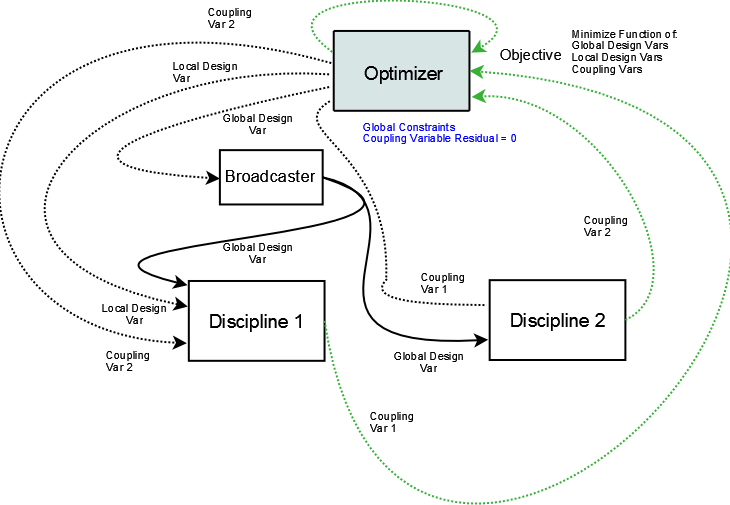
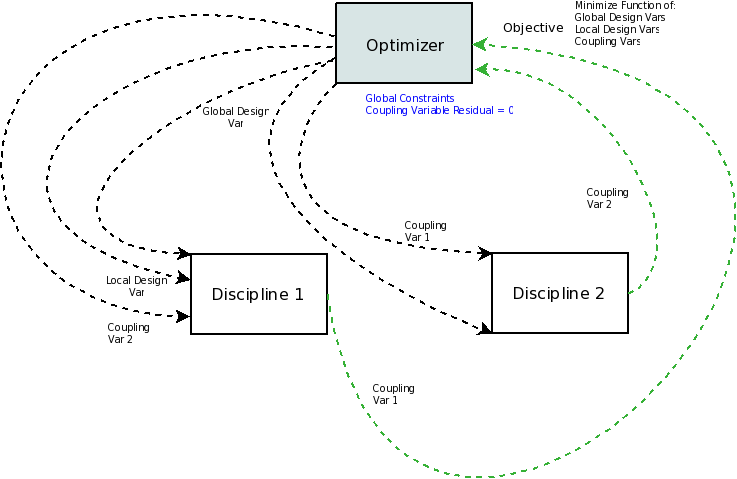
updated diagrams, and text for IDF tutorial

diff --git a/examples/openmdao.examples.mdao/openmdao/examples/mdao/sellar_IDF.py b/examples/openmdao.examples.mdao/openmdao/examples/mdao/sellar_IDF.py
@@ -1,8 +1,6 @@
 """
     Solution of the sellar analytical problem using IDF.
 """
-
-# pylint: disable-msg=E0611,F0401
 from openmdao.examples.mdao.disciplines import SellarDiscipline1, \
                                                SellarDiscipline2
 from openmdao.main.api import Assembly, set_as_top
@@ -18,9 +16,7 @@ class SellarIDF(Assembly):
         Optimal Design at (1.9776, 0, 0)
         
         Optimal Objective = 3.18339"""
-        
-        # pylint: disable-msg=E1101
-        
+                
         super(SellarIDF, self).__init__()
 
         # create Optimizer instance
@@ -37,8 +33,11 @@ class SellarIDF(Assembly):
         # Optimization parameters
         self.driver.add_objective('(dis1.x1)**2 + dis1.z2 + dis1.y1 + math.exp(-dis2.y2)')
         
+        #Global Design Variables
         self.driver.add_parameter(('dis1.z1','dis2.z1'), low = -10.0, high=10.0)
         self.driver.add_parameter(('dis1.z2','dis2.z2'), low = 0.0,   high=10.0)
+        
+        #Local Design Variables and Coupling Variables
         self.driver.add_parameter('dis1.x1',      low = 0.0,   high=10.0)
         self.driver.add_parameter('dis2.y1',      low = 3.16,  high=10.0)
         self.driver.add_parameter('dis1.y2',      low = -10.0, high=24.0)

diff --git a/docs/mdao/idf.rst b/docs/mdao/idf.rst
@@ -6,11 +6,10 @@ Individual Design Feasible (IDF)
 =================================
 
 Next, we will look at how to set up the Individual Design Feasible (IDF)
-architecture using the Sellar problem. In IDF, the coupling between the
+architecture for the Sellar problem. In IDF, the direct coupling between the
 disciplines is removed, and the input coupling variables are added to
 the optimizer's design variables. The algorithm calls for two new equality
-constraints that constrain to zero the residual error between the coupling variable
-output by the optimizer and the coupling variable output by the components.
+constraints that enforce the coupling between the disciplines instead. 
 This assures that the solution is a feasible coupling, though it is achieved
 through the optimizer's additional effort instead of a solver. The data
 flow for IDF is illustrated in the following diagram:
@@ -21,8 +20,8 @@ flow for IDF is illustrated in the following diagram:
    
    Data Flow for IDF
    
-IDF needs only one driver, so there is just one workflow. The broadcaster and
-the two disciplines are executed sequentially.
+IDF needs only one driver, so there is just one workflow where the two disciplines are executed sequentially.
+From the perspective of the iteration hierarchy, IDF is extremely simple.
    
 .. figure:: ../images/tutorials/Arch-IDF-OpenMDAO.png
    :align: center
@@ -30,15 +29,13 @@ the two disciplines are executed sequentially.
     
    Iteration Hierarchy for IDF
    
-Next, we will create the ``SellarIDF`` assembly. First, all of our components
+To implment IDF, we create the ``SellarIDF`` assembly. First, all of our components
 are instantiated and the workflow is defined.
    
 .. testcode:: IDF_parts
 
         from openmdao.examples.mdao.disciplines import SellarDiscipline1, \
-                                                       SellarDiscipline2
-        from openmdao.examples.mdao.broadcaster import Broadcaster
-        
+                                               SellarDiscipline2
         from openmdao.main.api import Assembly, set_as_top
         from openmdao.lib.drivers.api import CONMINdriver
         
@@ -52,32 +49,26 @@ are instantiated and the workflow is defined.
                 Optimal Design at (1.9776, 0, 0)
                 
                 Optimal Objective = 3.18339"""
-                
-                # pylint: disable-msg=E1101
-                
+                        
                 super(SellarIDF, self).__init__()
         
                 # create Optimizer instance
                 self.add('driver', CONMINdriver())
         
                 # Disciplines
-                self.add('bcastr', Broadcaster())
                 self.add('dis1', SellarDiscipline1())
                 self.add('dis2', SellarDiscipline2())
                 
                 # Driver process definition
-                self.driver.workflow.add(['bcastr', 'dis1', 'dis2'])
-                
-                # Make all connections
-                self.connect('bcastr.z1','dis1.z1')
-                self.connect('bcastr.z1','dis2.z1')
-                self.connect('bcastr.z2','dis1.z2')
-                self.connect('bcastr.z2','dis2.z2')
+                self.driver.workflow.add(['dis1', 'dis2'])
 
-We've also hooked up our data connections. Only the design variables that are shared
-by both components need to be connected to the broadcaster.
-
-All that is left to do is set up the CONMIN optimizer.
+Thats all it takes to setup the workflow for IDF. All that is left to do is set up the CONMIN optimizer. 
+Pay attention, in the code below, to how we handle the global design variables z1 and z2. They are setup the same
+way we did it for the MDF architecture. However, unlike for MDF, the coupling variables are also included as optimizer 
+parameters. We also introduce the CONMIN parameter *ct*, which is the constraint thickness for
+nonlinear constraints. Our constraints are nonlinear, but note that any
+constraint that involves a component output is most likely a nonlinear
+constraint because outputs are usually nonlinear functions of the design variables.
 
 .. testcode:: IDF_parts
     :hide:
@@ -87,18 +78,22 @@ All that is left to do is set up the CONMIN optimizer.
 .. testcode:: IDF_parts
 
         # Optimization parameters
-        self.driver.add_objective('(dis1.x1)**2 + bcastr.z2 + dis1.y1 + math.exp(-dis2.y2)')
+        self.driver.add_objective('(dis1.x1)**2 + dis1.z2 + dis1.y1 + math.exp(-dis2.y2)')
         
-        self.driver.add_parameter('bcastr.z1_in', low = -10.0, high=10.0)
-        self.driver.add_parameter('bcastr.z2_in', low = 0.0,   high=10.0)
+        #Global Design Variables
+        self.driver.add_parameter(('dis1.z1','dis2.z1'), low = -10.0, high=10.0)
+        self.driver.add_parameter(('dis1.z2','dis2.z2'), low = 0.0,   high=10.0)
+        
+        #Local Design Variables and Coupling Variables
         self.driver.add_parameter('dis1.x1',      low = 0.0,   high=10.0)
         self.driver.add_parameter('dis2.y1',      low = 3.16,  high=10.0)
         self.driver.add_parameter('dis1.y2',      low = -10.0, high=24.0)
             
-        self.driver.add_constraint('(dis2.y1-dis1.y1)**3 < 0')
-        self.driver.add_constraint('(dis1.y1-dis2.y1)**3 < 0')
-        self.driver.add_constraint('(dis2.y2-dis1.y2)**3 < 0')
-        self.driver.add_constraint('(dis1.y2-dis2.y2)**3 < 0')
+        self.driver.add_constraint('(dis2.y1-dis1.y1)**3 <= 0')
+        self.driver.add_constraint('(dis1.y1-dis2.y1)**3 <= 0')
+        self.driver.add_constraint('(dis2.y2-dis1.y2)**3 <= 0')
+        self.driver.add_constraint('(dis1.y2-dis2.y2)**3 <= 0')
+  
         self.driver.iprint = 0
         self.driver.itmax = 100
         self.driver.fdch = .003
@@ -108,26 +103,108 @@ All that is left to do is set up the CONMIN optimizer.
         self.driver.ct = -.01
         self.driver.ctlmin = 0.001
         
-Notice that the coupling variables are included as optimizer parameters. We
-also introduce the CONMIN parameter *ct*, which is the constraint thickness for
-nonlinear constraints. Our constraints are nonlinear, but note that any
-constraint that involves a component output is most likely a nonlinear
-constraint because outputs are usually nonlinear functions of the design variables.
 
+Technically, IDF requires the use of equality constraints to enforce coupling between the disciplines. 
 Since CONMIN doesn't support equality constraints, we have to fall back on a
 trick where we replace it with an equivalent pair of inequality constraints.
 For example, if we want to constrain ``x=2``, we could constraint ``x<=2`` and ``x>=2`` and
 let the optimizer converge to a solution where both constraints are active.
-Stability may be questionable for such a method, so it is always advisable to use an
-optimizer that has equality constraints rather than trying to squeeze a solution
-out of an optimizer this way. In particular, be careful about trying a fancier
-solution such as constraining ``abs(dis2.y1-dis1.y1)<=0``. This nonlinear
-constraint has a discontinuous slope, and CONMIN won't handle that constraint very well.
-Here, we take ``(dis2.y1-dis1.y1)`` and turn it into a cubic expression, which seemed
-to make the problem a little less sensitive to changes in the computational
-environment (32 bit vs 64 bit, etc.)
+Working with two inequalities is a bit more tricky though, because it can introduce some instability to 
+the optimizer and affect it's final solution. 
 
-This problem is contained in ``sellar_IDF.py``. Executing it at the command line should produce
+You might consider trying a fancier solution such as constraining ``abs(dis2.y1-dis1.y1)<=0``. Be careful though, 
+because this nonlinear constraint has a discontinuous slope, and CONMIN won't handle that very well. 
+After some experimentation, we found that cubing the difference between the coupling variables, 
+i.e. ``(dis1.y1-dis2.y1)**3``, seemed to make CONMIN happy and helped convergence. 
+
+When you put it all together, you get 
+:download:`sellar_IDF.py </../examples/openmdao.examples.mdao/openmdao/examples/mdao/sellar_IDF.py>`. 
+Once again, we added a small amount of code at the end to execute, and then print out the results of, the IDF
+optimization. 
+
+.. testcode:: IDF_full
+        from openmdao.examples.mdao.disciplines import SellarDiscipline1, \
+                                                       SellarDiscipline2
+        from openmdao.main.api import Assembly, set_as_top
+        from openmdao.lib.drivers.api import CONMINdriver
+        
+        
+        class SellarIDF(Assembly):
+            """ Optimization of the Sellar problem using IDF"""
+            
+            def __init__(self):
+                """ Creates a new Assembly with this problem
+                
+                Optimal Design at (1.9776, 0, 0)
+                
+                Optimal Objective = 3.18339"""
+                        
+                super(SellarIDF, self).__init__()
+        
+                # create Optimizer instance
+                self.add('driver', CONMINdriver())
+        
+                # Disciplines
+                self.add('dis1', SellarDiscipline1())
+                self.add('dis2', SellarDiscipline2())
+                
+                # Driver process definition
+                self.driver.workflow.add(['dis1', 'dis2'])
+                
+        
+                # Optimization parameters
+                self.driver.add_objective('(dis1.x1)**2 + dis1.z2 + dis1.y1 + math.exp(-dis2.y2)')
+                
+                #Global Design Variables
+                self.driver.add_parameter(('dis1.z1','dis2.z1'), low = -10.0, high=10.0)
+                self.driver.add_parameter(('dis1.z2','dis2.z2'), low = 0.0,   high=10.0)
+                
+                #Local Design Variables and Coupling Variables
+                self.driver.add_parameter('dis1.x1',      low = 0.0,   high=10.0)
+                self.driver.add_parameter('dis2.y1',      low = 3.16,  high=10.0)
+                self.driver.add_parameter('dis1.y2',      low = -10.0, high=24.0)
+                    
+                self.driver.add_constraint('(dis2.y1-dis1.y1)**3 <= 0')
+                self.driver.add_constraint('(dis1.y1-dis2.y1)**3 <= 0')
+                self.driver.add_constraint('(dis2.y2-dis1.y2)**3 <= 0')
+                self.driver.add_constraint('(dis1.y2-dis2.y2)**3 <= 0')
+          
+                self.driver.iprint = 0
+                self.driver.itmax = 100
+                self.driver.fdch = .003
+                self.driver.fdchm = .003
+                self.driver.delfun = .0001
+                self.driver.dabfun = .00001
+                self.driver.ct = -.01
+                self.driver.ctlmin = 0.001
+        
+        
+        if __name__ == "__main__":
+            import time
+            
+            prob = SellarIDF()
+            set_as_top(prob)
+            
+            # pylint: disable-msg=E1101
+                
+            prob.dis1.z1 = prob.dis2.z1 = 5.2
+            prob.dis1.z2 = prob.dis2.z2 = 2.0
+            prob.dis1.x1 = 1.0
+            prob.dis2.y1 = 3.16
+            
+            tt = time.time()
+            prob.run()
+        
+            print "\n"
+            print "CONMIN Iterations: ", prob.driver.iter_count
+            print "Minimum found at (%f, %f, %f)" % (prob.dis1.z1, \
+                                                     prob.dis2.z2, \
+                                                     prob.dis1.x1)
+            print "Couping vars: %f, %f" % (prob.dis1.y1, prob.dis2.y2)
+            print "Minimum objective: ", prob.driver.eval_objective()
+            print "Elapsed time: ", time.time()-tt, "seconds"
+
+Executing this at the command line should produce
 output that resembles this:
 
 ::
